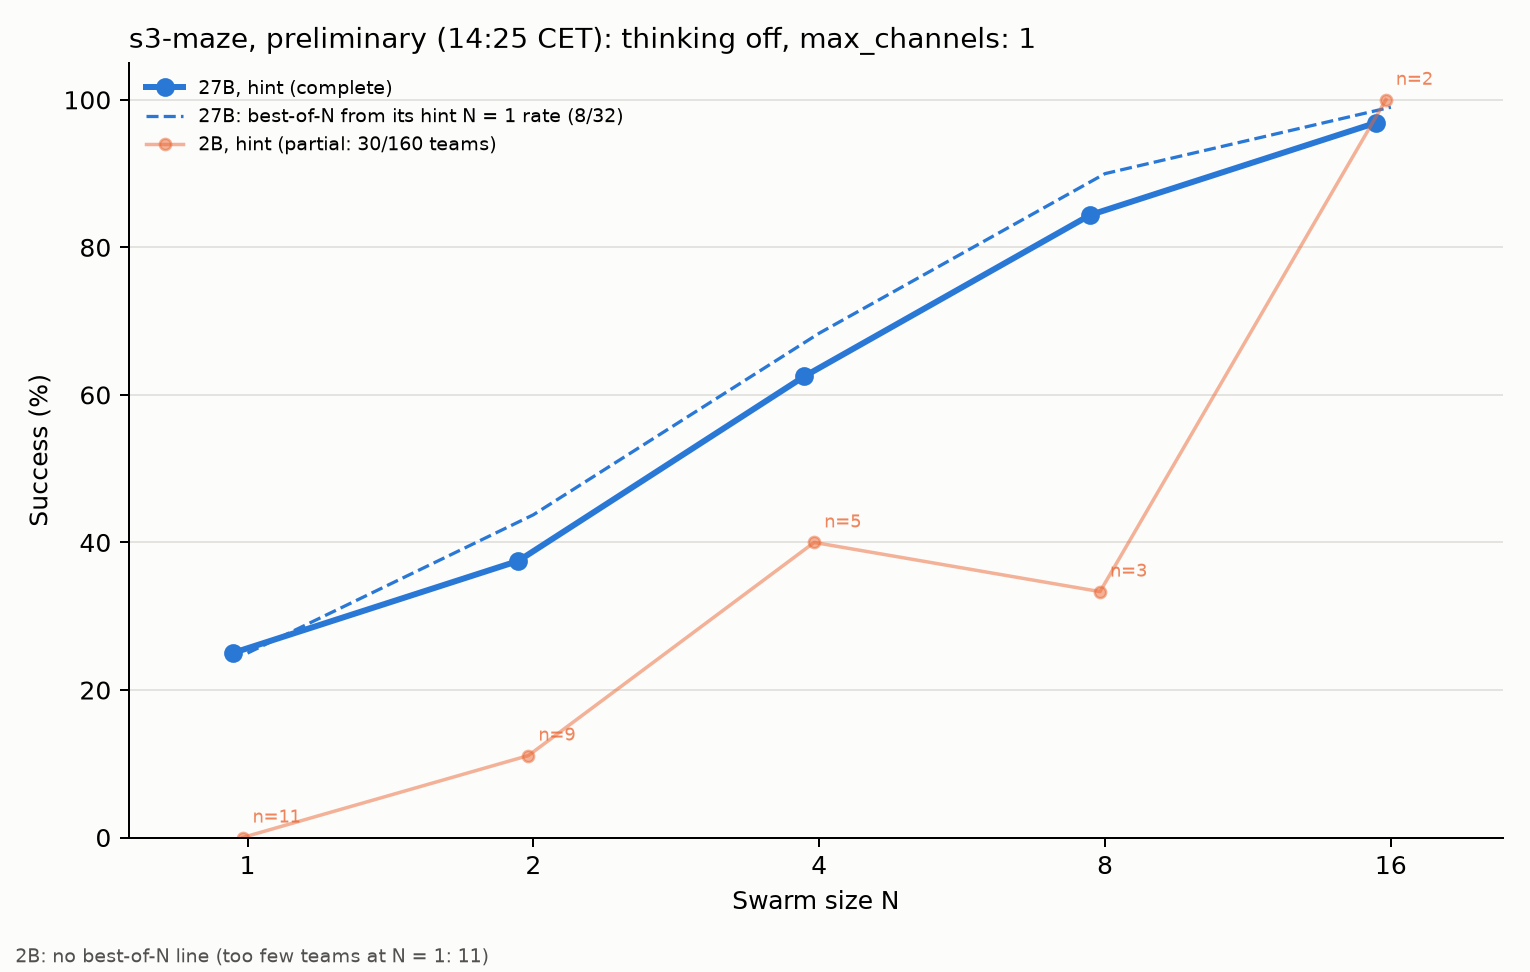
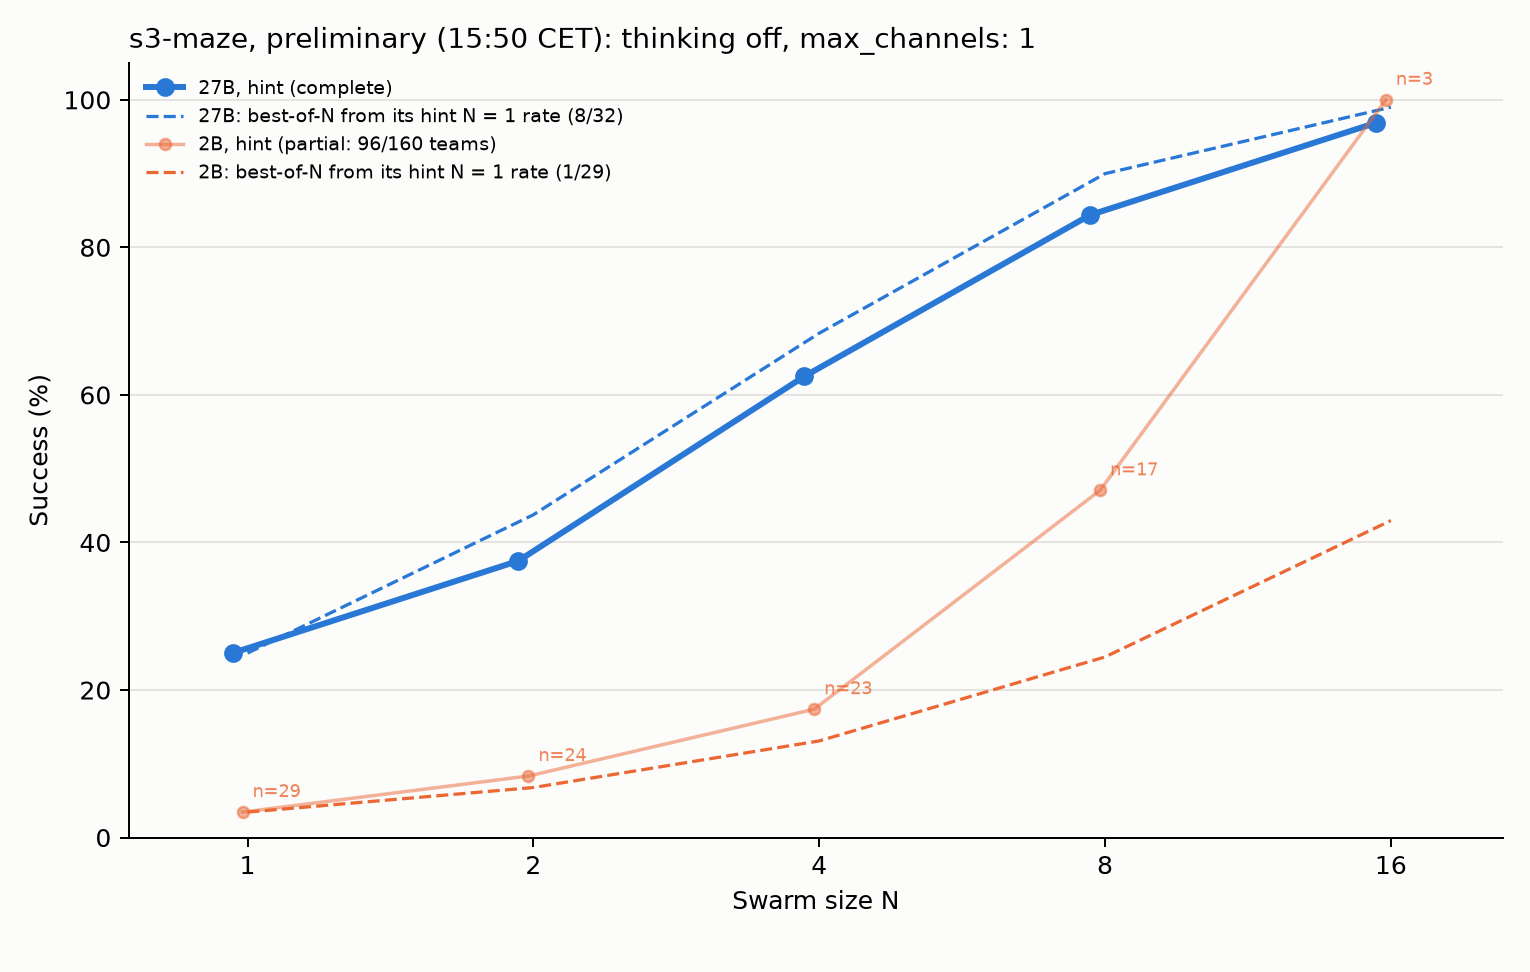
Update hint-only maze preliminary results at 15:50 CET

diff --git a/experiments/s3-maze/results/preliminary/README.md b/experiments/s3-maze/results/preliminary/README.md
@@ -1,0 +1,19 @@
+# Maze sweep in progress
+
+Captured on 18 November 2026 at **15:50 CET**. The figure contains only the protocol-hint
+condition, with thinking off and `max_channels: 1`. Points and lines have no intervals.
+Dashed lines show `1 - (1 - p1)^N`, using each model's observed hint-enabled N = 1 rate.
+
+| Model | N = 1 | N = 2 | N = 4 | N = 8 | N = 16 |
+|---|---:|---:|---:|---:|---:|
+| Qwen3.5-27B + hint | 8/32 | 12/32 | 20/32 | 27/32 | 31/32 |
+| Qwen3.5-2B + hint | 1/29 | 2/24 | 4/23 | 8/17 | 3/3 |
+
+Cells are successes / completed teams. The 27B grid is complete (160/160 teams); the 2B grid
+has 96/160 recorded teams. Each partial point shows its own team count. Infrastructure
+attempts with incomplete evidence or failed admission are set aside, never counted as model
+failures. The very small N = 16 denominator is especially selective while the sweep runs.
+
+The input rows are the existing `final/27b-hint/rows.jsonl` and `final/2b-hint/rows.jsonl` in the
+maze worktree's `.flock/s3-maze/` directory. The figure was rendered by its `final/preliminary.py`
+in hopper-cpu job 428650. These are intermediate results; the final report will replace them.
